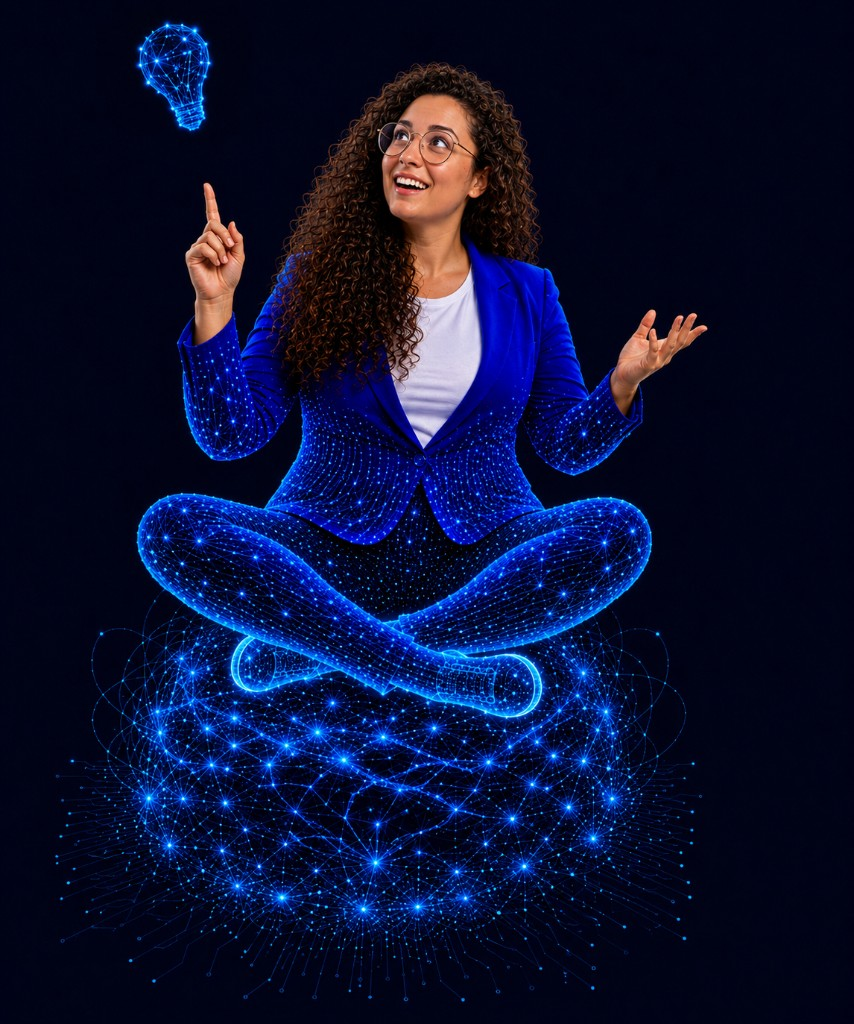
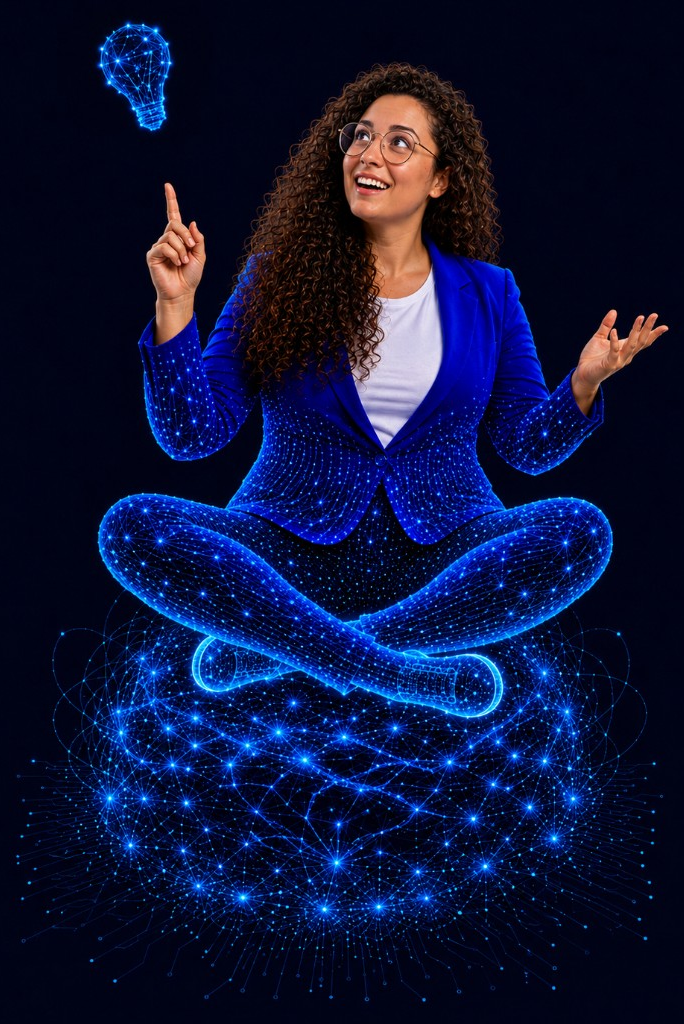
fix(mobile): rifiniti About, Skills e lightbox screenshot; aggiornato ritratto e testo progetto Francesca Gandelli.

diff --git a/src/components/ProjectFeatureScreens.jsx b/src/components/ProjectFeatureScreens.jsx
@@ -1,6 +1,8 @@
-import { useCallback, useEffect, useMemo, useState } from 'react'
+import { useCallback, useEffect, useMemo, useRef, useState } from 'react'
 import { FiChevronLeft, FiChevronRight, FiMaximize2, FiX } from 'react-icons/fi'
 import { getCarouselDotWaveDistance } from '../utils/carouselDotWave'
+
+const LIGHTBOX_SWIPE_THRESHOLD_PX = 48
 
 function getFeatureScreens(feature) {
   if (feature.screens?.length) return feature.screens
@@ -30,6 +32,7 @@ export function ProjectFeatureScreens({ features }) {
 
   const activeSlide = activeIndex == null ? null : gallery[activeIndex]
   const hasMultipleSlides = gallery.length > 1
+  const isLightboxOpen = activeIndex != null
 
   const close = useCallback(() => setActiveIndex(null), [])
 
@@ -42,17 +45,60 @@ export function ProjectFeatureScreens({ features }) {
   )
 
   const goPrevious = useCallback(() => {
-    if (activeIndex == null || activeIndex <= 0) return
-    setActiveIndex(activeIndex - 1)
-  }, [activeIndex])
+    setActiveIndex((current) => {
+      if (current == null || current <= 0) return current
+      return current - 1
+    })
+  }, [])
 
   const goNext = useCallback(() => {
-    if (activeIndex == null || activeIndex >= gallery.length - 1) return
-    setActiveIndex(activeIndex + 1)
-  }, [activeIndex, gallery.length])
+    setActiveIndex((current) => {
+      if (current == null || current >= gallery.length - 1) return current
+      return current + 1
+    })
+  }, [gallery.length])
+
+  const lightboxRef = useRef(null)
+  const swipeStartRef = useRef(null)
+
+  const handleLightboxTouchStart = useCallback((event) => {
+    const touch = event.touches[0]
+    if (!touch) return
+
+    swipeStartRef.current = { x: touch.clientX, y: touch.clientY }
+  }, [])
+
+  const handleLightboxTouchEnd = useCallback(
+    (event) => {
+      const start = swipeStartRef.current
+      swipeStartRef.current = null
+
+      if (!start || !hasMultipleSlides) return
+
+      const touch = event.changedTouches[0]
+      if (!touch) return
+
+      const deltaX = touch.clientX - start.x
+      const deltaY = touch.clientY - start.y
+
+      if (Math.abs(deltaX) < LIGHTBOX_SWIPE_THRESHOLD_PX) return
+      if (Math.abs(deltaY) > Math.abs(deltaX) * 0.85) return
+
+      if (deltaX < 0) {
+        goNext()
+      } else {
+        goPrevious()
+      }
+    },
+    [hasMultipleSlides, goNext, goPrevious],
+  )
+
+  const clearLightboxSwipe = useCallback(() => {
+    swipeStartRef.current = null
+  }, [])
 
   useEffect(() => {
-    if (activeIndex == null) return undefined
+    if (!isLightboxOpen) return undefined
 
     const onKeyDown = (event) => {
       if (event.key === 'Escape') {
@@ -72,15 +118,52 @@ export function ProjectFeatureScreens({ features }) {
       }
     }
 
-    const previousOverflow = document.body.style.overflow
-    document.body.style.overflow = 'hidden'
+    const scrollY = window.scrollY
+    const { body, documentElement } = document
+    const bodyStyle = body.style
+    const htmlStyle = documentElement.style
+    const previousBody = {
+      position: bodyStyle.position,
+      top: bodyStyle.top,
+      left: bodyStyle.left,
+      right: bodyStyle.right,
+      width: bodyStyle.width,
+      overflow: bodyStyle.overflow,
+    }
+    const previousHtmlOverflow = htmlStyle.overflow
+
+    bodyStyle.position = 'fixed'
+    bodyStyle.top = `-${scrollY}px`
+    bodyStyle.left = '0'
+    bodyStyle.right = '0'
+    bodyStyle.width = '100%'
+    bodyStyle.overflow = 'hidden'
+    htmlStyle.overflow = 'hidden'
+    body.classList.add('project-screenshot-lightbox-open')
+
+    const lightbox = lightboxRef.current
+    const onTouchMove = (event) => {
+      event.preventDefault()
+    }
+
+    lightbox?.addEventListener('touchmove', onTouchMove, { passive: false })
     window.addEventListener('keydown', onKeyDown)
 
     return () => {
-      document.body.style.overflow = previousOverflow
+      lightbox?.removeEventListener('touchmove', onTouchMove)
       window.removeEventListener('keydown', onKeyDown)
+
+      body.classList.remove('project-screenshot-lightbox-open')
+      bodyStyle.position = previousBody.position
+      bodyStyle.top = previousBody.top
+      bodyStyle.left = previousBody.left
+      bodyStyle.right = previousBody.right
+      bodyStyle.width = previousBody.width
+      bodyStyle.overflow = previousBody.overflow
+      htmlStyle.overflow = previousHtmlOverflow
+      window.scrollTo(0, scrollY)
     }
-  }, [activeIndex, close, goNext, goPrevious])
+  }, [isLightboxOpen, close, goNext, goPrevious])
 
   let galleryCursor = 0
 
@@ -174,11 +257,15 @@ export function ProjectFeatureScreens({ features }) {
 
       {activeSlide ? (
         <div
+          ref={lightboxRef}
           className="project-screenshot-lightbox"
           role="dialog"
           aria-modal="true"
           aria-label={activeSlide.featureTitle}
           onClick={close}
+          onTouchStart={handleLightboxTouchStart}
+          onTouchEnd={handleLightboxTouchEnd}
+          onTouchCancel={clearLightboxSwipe}
         >
           <button
             type="button"

diff --git a/src/index.css b/src/index.css
@@ -2521,7 +2521,7 @@ html.perf-lite .hero-bg__circuit-spotlight.hero-bg__circuit-spotlight--auto {
 
   .about-section {
     padding-top: 1rem;
-    overflow-x: clip;
+    overflow: visible;
   }
 
   .about-lead {
@@ -2532,15 +2532,29 @@ html.perf-lite .hero-bg__circuit-spotlight.hero-bg__circuit-spotlight--auto {
 
   .about-visual {
     order: -1;
+    width: 100%;
+    align-items: center;
     margin-top: 0;
     margin-bottom: 1.75rem;
+    overflow: visible;
   }
 
   .about-visual__wrap {
-    max-width: min(100%, 28rem);
+    width: 100%;
+    max-width: 100%;
     margin-inline: auto;
-    margin-top: -30px;
+    margin-top: 0;
     margin-bottom: 0.25rem;
+    align-items: center;
+    overflow: visible;
+  }
+
+  .about-visual__img-shell,
+  .about-visual__media {
+    display: flex;
+    align-items: center;
+    justify-content: center;
+    width: 100%;
   }
 
   .about-intro {
@@ -2550,7 +2564,11 @@ html.perf-lite .hero-bg__circuit-spotlight.hero-bg__circuit-spotlight--auto {
   }
 
   .about-visual__img {
-    max-height: min(37rem, 76vh);
+    width: 100%;
+    max-width: 100%;
+    max-height: min(43rem, 86vh);
+    margin-inline: auto;
+    object-position: center center;
   }
 
   .about-highlights {
@@ -3533,6 +3551,15 @@ html.perf-lite .hero-bg__circuit-spotlight.hero-bg__circuit-spotlight--auto {
   }
 }
 
+/* Smartphone: tech stack lungo su due colonne per ridurre l’altezza verticale */
+@media (width < 640px) {
+  .project-case-tech-list:has(li:nth-child(6)) {
+    grid-template-columns: repeat(2, minmax(0, 1fr));
+    column-gap: 0.5rem;
+    row-gap: 0.5rem;
+  }
+}
+
 .project-case-feature-screens__shots {
   display: grid;
   gap: 2rem;
@@ -3690,6 +3717,12 @@ html.perf-lite .hero-bg__circuit-spotlight.hero-bg__circuit-spotlight--auto {
   padding: 1.25rem;
   background: rgba(var(--site-bg-rgb), 0.92);
   backdrop-filter: blur(6px);
+  overscroll-behavior: none;
+}
+
+body.project-screenshot-lightbox-open {
+  overflow: hidden;
+  overscroll-behavior: none;
 }
 
 .project-screenshot-lightbox__close.nav-btn {
@@ -3801,16 +3834,57 @@ html.perf-lite .hero-bg__circuit-spotlight.hero-bg__circuit-spotlight--auto {
 @media (width < 640px) {
   .project-screenshot-lightbox {
     padding: 0.75rem;
+    touch-action: none;
   }
 
   .project-screenshot-lightbox__nav.nav-btn {
-    width: 2.35rem;
-    min-width: 2.35rem;
-    height: 2.35rem;
+    display: none;
+  }
+
+  .project-screenshot-lightbox__inner {
+    width: min(100vw - 1.5rem, 80rem);
   }
 
   .project-screenshot-lightbox__img {
     max-height: min(58vh, 680px);
+  }
+
+  .project-screenshot-lightbox__dots.projects-carousel-dots {
+    gap: 0.025rem;
+    max-width: 100%;
+    padding-inline: 0;
+  }
+
+  .project-screenshot-lightbox__dots .projects-carousel-dot-cell {
+    width: 0.875rem;
+    height: 0.875rem;
+  }
+
+  .project-screenshot-lightbox__dots .projects-carousel-dot {
+    width: 0.7rem;
+    height: 0.7rem;
+    border-width: 1.5px;
+  }
+
+  .project-screenshot-lightbox__dots .projects-carousel-dot[data-wave-distance='0'] {
+    transform: scale(1);
+    border-width: 2px;
+  }
+
+  .project-screenshot-lightbox__dots .projects-carousel-dot[data-wave-distance='1'] {
+    transform: scale(0.82);
+  }
+
+  .project-screenshot-lightbox__dots .projects-carousel-dot[data-wave-distance='2'] {
+    transform: scale(0.72);
+  }
+
+  .project-screenshot-lightbox__dots .projects-carousel-dot[data-wave-distance='3'] {
+    transform: scale(0.62);
+  }
+
+  .project-screenshot-lightbox__dots .projects-carousel-dot[data-wave-distance='4'] {
+    transform: scale(0.54);
   }
 }
 

diff --git a/src/skills.css b/src/skills.css
@@ -1260,7 +1260,7 @@
       "sidebar"
       "cluster"
       "process";
-    row-gap: clamp(2.5rem, 8vw, 4rem);
+    row-gap: clamp(1.35rem, 4.5vw, 1.85rem);
   }
 
   .skills-showcase__header {
@@ -1309,6 +1309,8 @@
     grid-template-areas: unset;
     gap: 0;
     width: 100%;
+    margin-top: 0;
+    padding-bottom: 0;
   }
 
   .skills-radar-cluster__detail-slot--left,
@@ -1330,7 +1332,8 @@
     position: relative;
     width: min(100%, 18rem);
     max-width: 18rem;
-    margin-top: calc(0.85rem + 10px);
+    margin-top: calc(0.65rem + 6px);
+    margin-bottom: 0;
     margin-inline: auto;
   }
 
@@ -1373,7 +1376,7 @@
   }
 
   .skills-process-zone {
-    margin-top: clamp(3.5rem, 12vw, 5rem);
+    margin-top: clamp(1rem, 3.5vw, 1.5rem);
   }
 
   .skills-pipeline {

diff --git a/src/components/About.jsx b/src/components/About.jsx
@@ -92,12 +92,12 @@ const About = () => {
                     </defs>
                   </svg>
                   <img
-                    src="/images/about-portrait.png?v=5"
+                    src="/images/about-portrait.png?v=6"
                     alt="Claudia Salsini - dalla psicologia allo sviluppo web"
                     className="about-visual__img"
                     loading="lazy"
                     decoding="async"
-                    width={854}
+                    width={684}
                     height={1024}
                   />
                 </div>

diff --git a/src/pages/projects/FrancescaGandelliProject.jsx b/src/pages/projects/FrancescaGandelliProject.jsx
@@ -210,7 +210,7 @@ const FrancescaGandelliProject = () => (
             Come ho realizzato il portfolio
           </h2>
           <p className="project-case-body">
-            Ho sviluppato il portfolio da sola, in parallelo alla formazione: prima ho allineato
+            Ho sviluppato il portfolio in parallelo alla formazione: prima ho allineato
             l’interfaccia alle richieste estetiche della cliente, poi ho progettato l’architettura
             client/server con React, API Express, MongoDB Atlas e Cloudinary, con autenticazione
             admin e deploy su Netlify e Render.